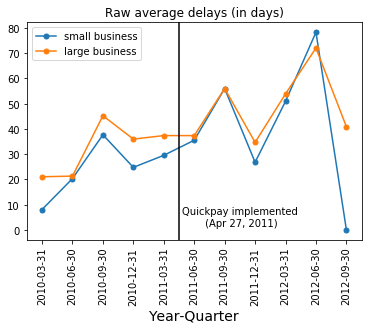
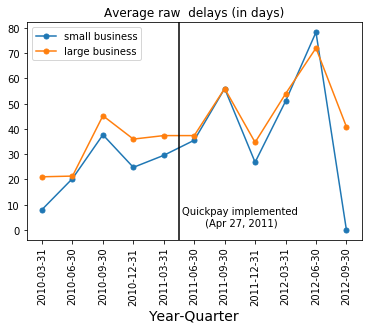
add summary for number of contracts per firm, and graph for standard deviation of delays

Changed region(s): [[0.2661, 0.0303, 0.7688, 0.0606]]

diff --git a/codes/qp_parallel_trends.py b/codes/qp_parallel_trends.py
@@ -87,7 +87,7 @@ large_business_group.columns=pd.Index([e[0] +'_'+ e[1] for e in large_business_g
 fig = plt.figure()
 plt.xticks(rotation=90)
 #plt.gca().xaxis.set_major_locator(LinearLocator(numticks=25))  
-plt.title('0.1% Winsorized average delays (in days)')
+plt.title('Average delays (in days) -- winsorized (0.1%)')
 plt.plot(small_business_group.action_date_year_quarter_.astype(str),\
          small_business_group.winsorized_delay_mean,label="small business",\
          marker='o', markersize=5)
@@ -101,6 +101,28 @@ text(7.5, 1.5,'Quickpay implemented\n (Apr 27, 2011)',
 plt.xlabel("Year-Quarter",fontsize=14)
 #plt.axvline(x=6)
 savefig('/Users/vibhutidhingra/Desktop/research/Git:Github/qp_data_and_code/img/trends_winsorized.png', bbox_inches='tight')
+
+### Winsorized std dev ###
+
+fig = plt.figure()
+plt.xticks(rotation=90)
+#plt.gca().xaxis.set_major_locator(LinearLocator(numticks=25))  
+plt.title(' Std Dev of delays (in days) -- winsorized (0.1%)')
+plt.plot(small_business_group.action_date_year_quarter_.astype(str),\
+         small_business_group.winsorized_delay_std,label="small business",\
+         marker='o', markersize=5)
+plt.plot(large_business_group.action_date_year_quarter_.astype(str),\
+         large_business_group.winsorized_delay_std,label="large business",\
+         marker='o', markersize=5)
+plt.legend(loc="upper left")
+plt.axvline(x=5.5, color="black")
+text(7.5, 115,'Quickpay implemented\n (Apr 27, 2011)',
+     horizontalalignment='center')
+plt.xlabel("Year-Quarter",fontsize=14)
+#plt.axvline(x=6)
+savefig('/Users/vibhutidhingra/Desktop/research/Git:Github/qp_data_and_code/img/trends_winsorized_std_dev.png', bbox_inches='tight')
+
+### Number of contracts ###
 
 fig = plt.figure()
 plt.xticks(rotation=90)
@@ -121,10 +143,12 @@ plt.legend(loc="lower left")
 plt.xlabel("Year-Quarter",fontsize=14)
 savefig('/Users/vibhutidhingra/Desktop/research/Git:Github/qp_data_and_code/img/trends_number_of_contracts.png', bbox_inches='tight')
 
+### Average raw delays ###
+
 fig = plt.figure()
 plt.xticks(rotation=90)
 #plt.gca().xaxis.set_major_locator(LinearLocator(numticks=25))  
-plt.title('Raw average delays (in days)')
+plt.title('Average raw  delays (in days)')
 plt.plot(small_business_group.action_date_year_quarter_.astype(str),\
          small_business_group.change_in_deadline_mean,label="small business",\
          marker='o', markersize=5)
@@ -137,4 +161,23 @@ text(7.5, 1.5,'Quickpay implemented\n (Apr 27, 2011)',
      horizontalalignment='center')
 plt.xlabel("Year-Quarter",fontsize=14)
 savefig('/Users/vibhutidhingra/Desktop/research/Git:Github/qp_data_and_code/img/trends_raw.png', bbox_inches='tight')
+
+#######################################################
+# Contracts per firm
+#######################################################
+
+contracts_per_recipient=df_sorted.groupby('recipient_duns')['contract_award_unique_key'].nunique().reset_index()
+
+contracts_per_recipient.loc[contracts_per_recipient.contract_award_unique_key==1,"category"]="One contract"
+contracts_per_recipient.loc[(contracts_per_recipient.contract_award_unique_key>1)&(contracts_per_recipient.contract_award_unique_key<=5),"category"]="1-5 contracts"
+contracts_per_recipient.loc[(contracts_per_recipient.contract_award_unique_key>5)&(contracts_per_recipient.contract_award_unique_key<=10),"category"]="5-10 contracts"
+contracts_per_recipient.loc[(contracts_per_recipient.contract_award_unique_key>10)&(contracts_per_recipient.contract_award_unique_key<=15),"category"]="10-15 contracts"
+contracts_per_recipient.loc[(contracts_per_recipient.contract_award_unique_key>15),"category"]="More than 15 contracts"
+
+summary=contracts_per_recipient.groupby('category')['recipient_duns'].nunique().reset_index()
+summary.rename(columns={'recipient_duns':'number of firms','category':'contract group'},inplace=True)
+summary.to_html(justify="left").replace("\n","")
+
+
+
 
